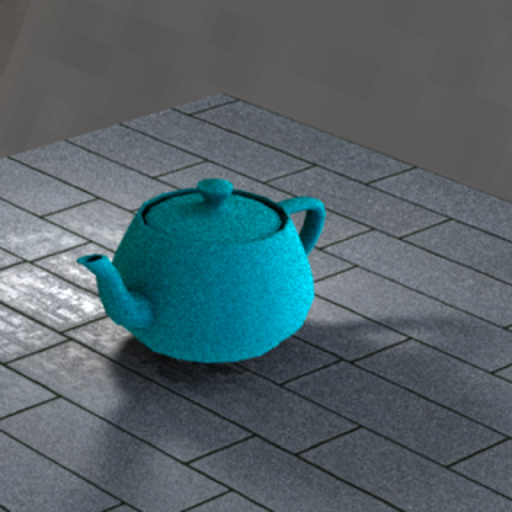
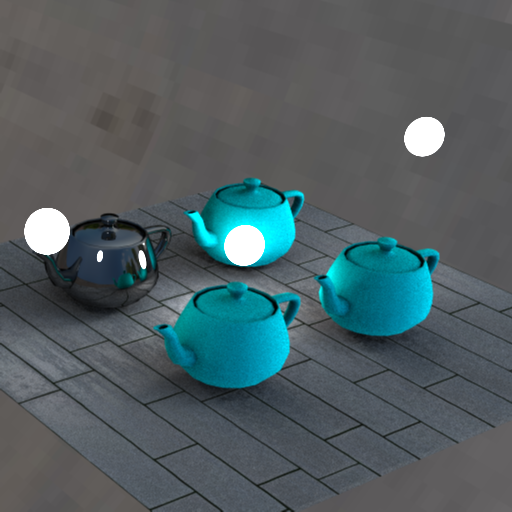
faster bumping

diff --git a/renders/README.md b/renders/README.md
@@ -5,4 +5,4 @@
 4) + smoothing of vertex normals. Nice. 100spp.
 5) + stone image texture + rectanlges + 1,000 spp.
 6) + bump map (finally correct but slow as all hell) + area light 100 spp
-7) + stratified sampling + OrenNayer & Plastic teapots (+ fixed normals!) 10x10 spp
+7) + stratified sampling + OrenNayer & Plastic teapots (+ fixed normals!) 25x25 spp
